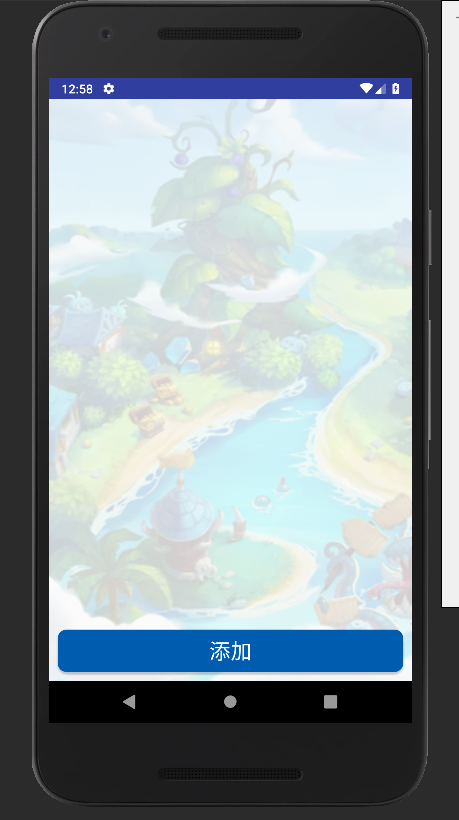
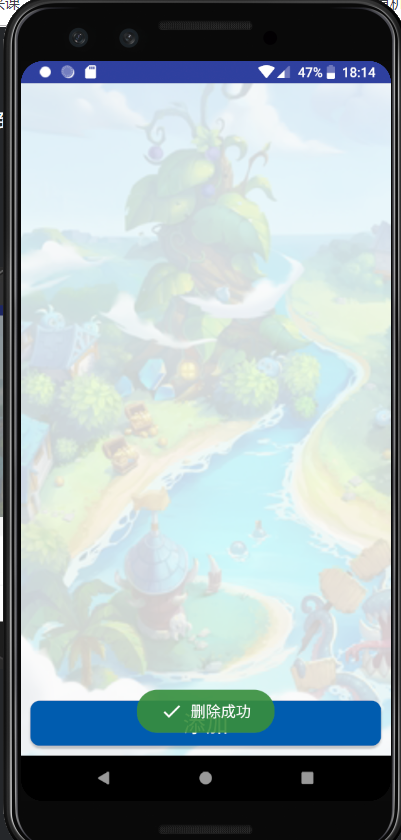
final

diff --git a/README.md b/README.md
@@ -33,10 +33,16 @@ Course Card是一款课程表应用。用户可以通过中大教务系统导入
 <img src="img/9.png" width="180"/><img src="img/10.png" width="180"/><img src="img/11.png" width="180" /><img src="img/12.png" width="180" />
 </div>
 
-长按课程可以修改信息，修改后自动保存，修改依据是根据课程id修改，可修改所有内容，返回后自动保存
+长按课程可以修改信息或删除课程，修改依据是根据课程id修改，可修改所有内容，返回或删除后自动保存
 
 <div align="center">
 <img src="img/17.png" width="180"/><img src="img/18.png" width="180"/>
+</div>
+
+左上方菜单还有添加新课程按钮，课程允许重复，默认有部分信息，返回后自动创建
+
+<div align="center">
+<img src="img/19.png" width="180"/><img src="img/20.png" width="180"/><img src="img/21.png" width="180"/>
 </div>
 
 最后，用户进入课程信息界面时，有机会见到不同的冈布奥。

diff --git a/dashboard/new_content/ReadMe.md b/dashboard/new_content/ReadMe.md
@@ -17,23 +17,42 @@
 ### 展示
 
 新建课程库
+
 ![](img/newCoursePage.gif)
 
 删除课程库
+
 ![](img/deleteCoursePage.gif)
 
 新建课程
+
 ![](img/newCourse.gif)
 
 修改课程
+
 ![](img/editCourse.gif)
 
 删除课程
+
 ![](img/deleteCourse.gif)
 
 点击通知跳转
+
 ![](img/touchNotification.gif)
 
+### 贡献
+
+贡献，SplitGemini
+
+![](img/contribute.png)
+
+对比原分支,16 commits, 84 files changed
+
+![](img/change.png)
+
+3182 additions
+
+![](img/diff.png)
 
 ### 问题
 
